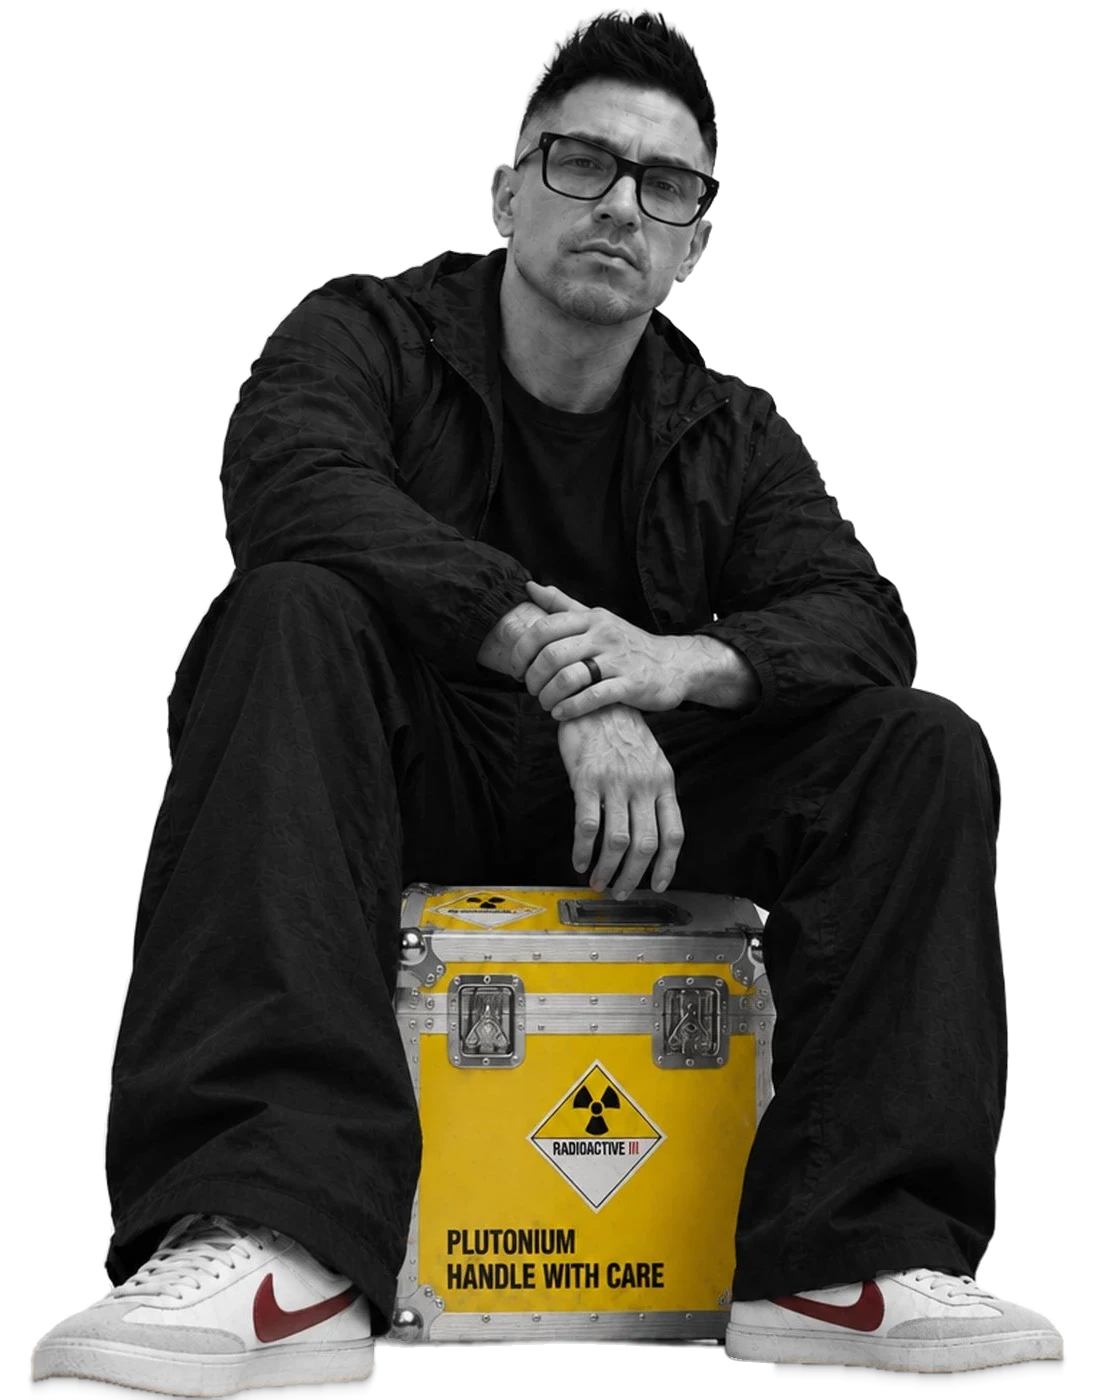
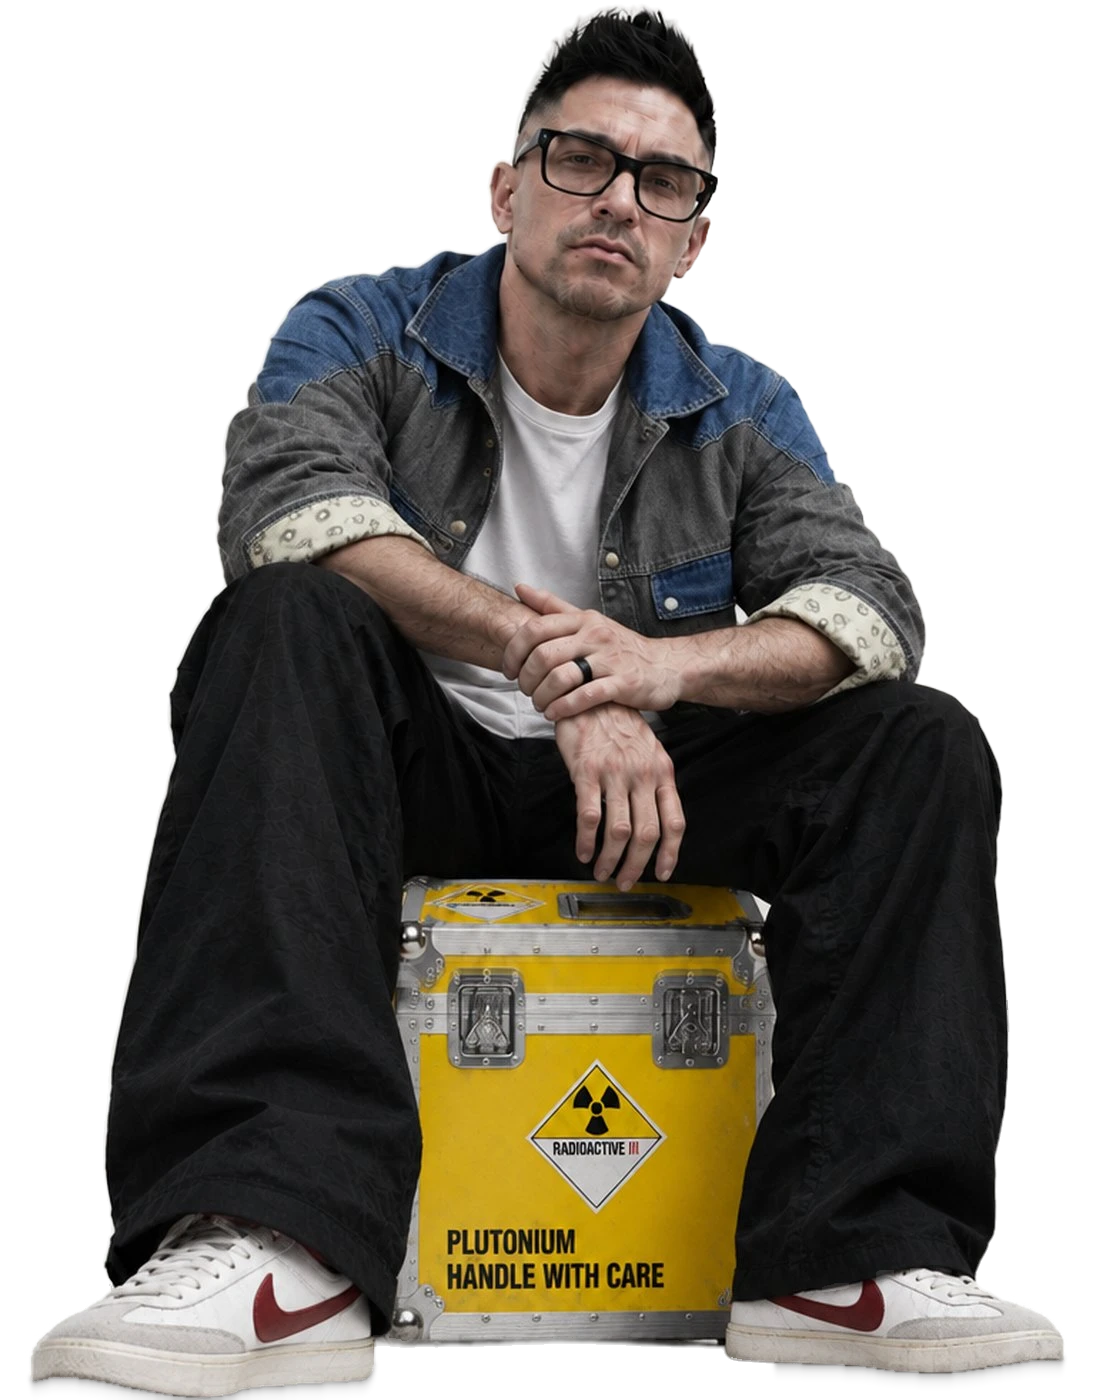
Hero in full colour: white tee + Marty's two-tone denim jacket, cuffs rolled
Upper body re-edited from the colour source with the reference jacket
(paisley lining showing on the rolled sleeves) and a white t-shirt; legs,
shoes and case keep the existing cleaned cutout, now in colour. The B&W
treatment is dropped. Avatar pixels shared with the photo (shoes, case)
recoloured so the suit-up still swaps cleanly; trails rebuilt in colour;
glasses LED re-aimed.

Claude-Session: https://claude.ai/code/session_01W5NmLrmCfpinZRZs12n3aL

Changed region(s): [[0.1861, 0.0, 0.8996, 0.7064], [0.1241, 0.5529, 0.1551, 0.6757], [0.1551, 0.5221, 0.1861, 0.5529]]

diff --git a/index.html b/index.html
@@ -129,12 +129,12 @@
   .figure.suited .suit { transform: none; transition: transform .75s cubic-bezier(.25,1.35,.45,1); }
   .figure .led, .figure .led-tip { transition: opacity .3s; }
   .figure.suited .led, .figure.suited .led-tip { opacity: 0; }
-  .led { position: absolute; left: 49.7%; top: 10%; width: 44px; height: 44px; margin: -22px 0 0 -22px; border: 0; padding: 0; background: none; cursor: pointer; pointer-events: auto; border-radius: 50%; }
+  .led { position: absolute; left: 49.6%; top: 9.65%; width: 44px; height: 44px; margin: -22px 0 0 -22px; border: 0; padding: 0; background: none; cursor: pointer; pointer-events: auto; border-radius: 50%; }
   .led::before { content: ""; position: absolute; left: 50%; top: 50%; width: 6px; height: 6px; margin: -3px 0 0 -3px; border-radius: 50%; background: #fff; box-shadow: 0 0 6px 2px #fff, 0 0 16px 6px rgba(255,255,255,.75); animation: blink 1.6s steps(1, end) infinite; }
   .led::after { content: ""; position: absolute; inset: 8px; border-radius: 50%; border: 1px solid rgba(255,255,255,.0); transition: border-color .2s; }
   .led:hover::after, .led:focus-visible::after { border-color: rgba(255,255,255,.9); }
   .led:focus-visible { outline: none; }
-  .led-tip { position: absolute; left: calc(49.7% + 26px); top: calc(10% - 14px); white-space: nowrap; padding: 6px 10px; border-radius: 999px; background: var(--ink); color: #f6f5f2; font-size: 11px; letter-spacing: .08em; text-transform: uppercase; opacity: 0; transform: translateX(-6px); transition: opacity .25s, transform .25s; pointer-events: none; }
+  .led-tip { position: absolute; left: calc(49.6% + 26px); top: calc(9.65% - 14px); white-space: nowrap; padding: 6px 10px; border-radius: 999px; background: var(--ink); color: #f6f5f2; font-size: 11px; letter-spacing: .08em; text-transform: uppercase; opacity: 0; transform: translateX(-6px); transition: opacity .25s, transform .25s; pointer-events: none; }
   .led:hover + .led-tip, .led:focus-visible + .led-tip { opacity: 1; transform: none; }
   @keyframes blink { 0%, 55% { opacity: 1; } 56%, 100% { opacity: .08; } }
 
@@ -454,7 +454,7 @@
     <img class="ghost suit-trail" src="assets/charlie-hazmat-trail.webp" alt="" aria-hidden="true">
     <div class="figure">
       <div class="shadowed">
-      <img class="me" src="assets/charlie-cutout.webp" alt="Black-and-white portrait of Charlie Hinojosa wearing Ray-Ban Meta glasses and white 1985 Nike sneakers with red swooshes, seated on the yellow Back to the Future plutonium case, shown in full color, his left hand on top showing a black wedding band. Hover to morph into his music avatar: a figure in a yellow radiation suit and the same white Nikes, holding up a Sony Walkman.">
+      <img class="me" src="assets/charlie-cutout.webp" alt="Charlie Hinojosa in full colour, wearing Ray-Ban Meta glasses, a white t-shirt and a two-tone 1985 denim jacket with the sleeves rolled to show the paisley lining, black wide-leg trousers and white Nikes with red swooshes, seated on the yellow Back to the Future plutonium case, his left hand on top showing a black wedding band. Hover to suit up as his music avatar.">
       <img class="suit" src="assets/charlie-hazmat-cutout.webp" alt="" aria-hidden="true">
       </div>
       <button class="led" type="button" id="led" aria-haspopup="dialog" aria-controls="pov"><span class="sr">See through Charlie's Ray-Ban Meta glasses</span></button>

diff --git a/tastemaster.html b/tastemaster.html
@@ -129,12 +129,12 @@
   .figure.suited .suit { transform: none; transition: transform .75s cubic-bezier(.25,1.35,.45,1); }
   .figure .led, .figure .led-tip { transition: opacity .3s; }
   .figure.suited .led, .figure.suited .led-tip { opacity: 0; }
-  .led { position: absolute; left: 49.7%; top: 10%; width: 44px; height: 44px; margin: -22px 0 0 -22px; border: 0; padding: 0; background: none; cursor: pointer; pointer-events: auto; border-radius: 50%; }
+  .led { position: absolute; left: 49.6%; top: 9.65%; width: 44px; height: 44px; margin: -22px 0 0 -22px; border: 0; padding: 0; background: none; cursor: pointer; pointer-events: auto; border-radius: 50%; }
   .led::before { content: ""; position: absolute; left: 50%; top: 50%; width: 6px; height: 6px; margin: -3px 0 0 -3px; border-radius: 50%; background: #fff; box-shadow: 0 0 6px 2px #fff, 0 0 16px 6px rgba(255,255,255,.75); animation: blink 1.6s steps(1, end) infinite; }
   .led::after { content: ""; position: absolute; inset: 8px; border-radius: 50%; border: 1px solid rgba(255,255,255,.0); transition: border-color .2s; }
   .led:hover::after, .led:focus-visible::after { border-color: rgba(255,255,255,.9); }
   .led:focus-visible { outline: none; }
-  .led-tip { position: absolute; left: calc(49.7% + 26px); top: calc(10% - 14px); white-space: nowrap; padding: 6px 10px; border-radius: 999px; background: var(--ink); color: #f6f5f2; font-size: 11px; letter-spacing: .08em; text-transform: uppercase; opacity: 0; transform: translateX(-6px); transition: opacity .25s, transform .25s; pointer-events: none; }
+  .led-tip { position: absolute; left: calc(49.6% + 26px); top: calc(9.65% - 14px); white-space: nowrap; padding: 6px 10px; border-radius: 999px; background: var(--ink); color: #f6f5f2; font-size: 11px; letter-spacing: .08em; text-transform: uppercase; opacity: 0; transform: translateX(-6px); transition: opacity .25s, transform .25s; pointer-events: none; }
   .led:hover + .led-tip, .led:focus-visible + .led-tip { opacity: 1; transform: none; }
   @keyframes blink { 0%, 55% { opacity: 1; } 56%, 100% { opacity: .08; } }
 
@@ -489,7 +489,7 @@
     <img class="ghost suit-trail" src="assets/charlie-hazmat-trail.webp" alt="" aria-hidden="true">
     <div class="figure">
       <div class="shadowed">
-      <img class="me" src="assets/charlie-cutout.webp" alt="Black-and-white portrait of Charlie Hinojosa wearing Ray-Ban Meta glasses and white 1985 Nike sneakers with red swooshes, seated on the yellow Back to the Future plutonium case, shown in full color, his left hand on top showing a black wedding band. Hover to morph into his music avatar: a figure in a yellow radiation suit and the same white Nikes, holding up a Sony Walkman.">
+      <img class="me" src="assets/charlie-cutout.webp" alt="Charlie Hinojosa in full colour, wearing Ray-Ban Meta glasses, a white t-shirt and a two-tone 1985 denim jacket with the sleeves rolled to show the paisley lining, black wide-leg trousers and white Nikes with red swooshes, seated on the yellow Back to the Future plutonium case, his left hand on top showing a black wedding band. Hover to suit up as his music avatar.">
       <img class="suit" src="assets/charlie-hazmat-cutout.webp" alt="" aria-hidden="true">
       </div>
       <button class="led" type="button" id="led" aria-haspopup="dialog" aria-controls="pov"><span class="sr">See through Charlie's Ray-Ban Meta glasses</span></button>
